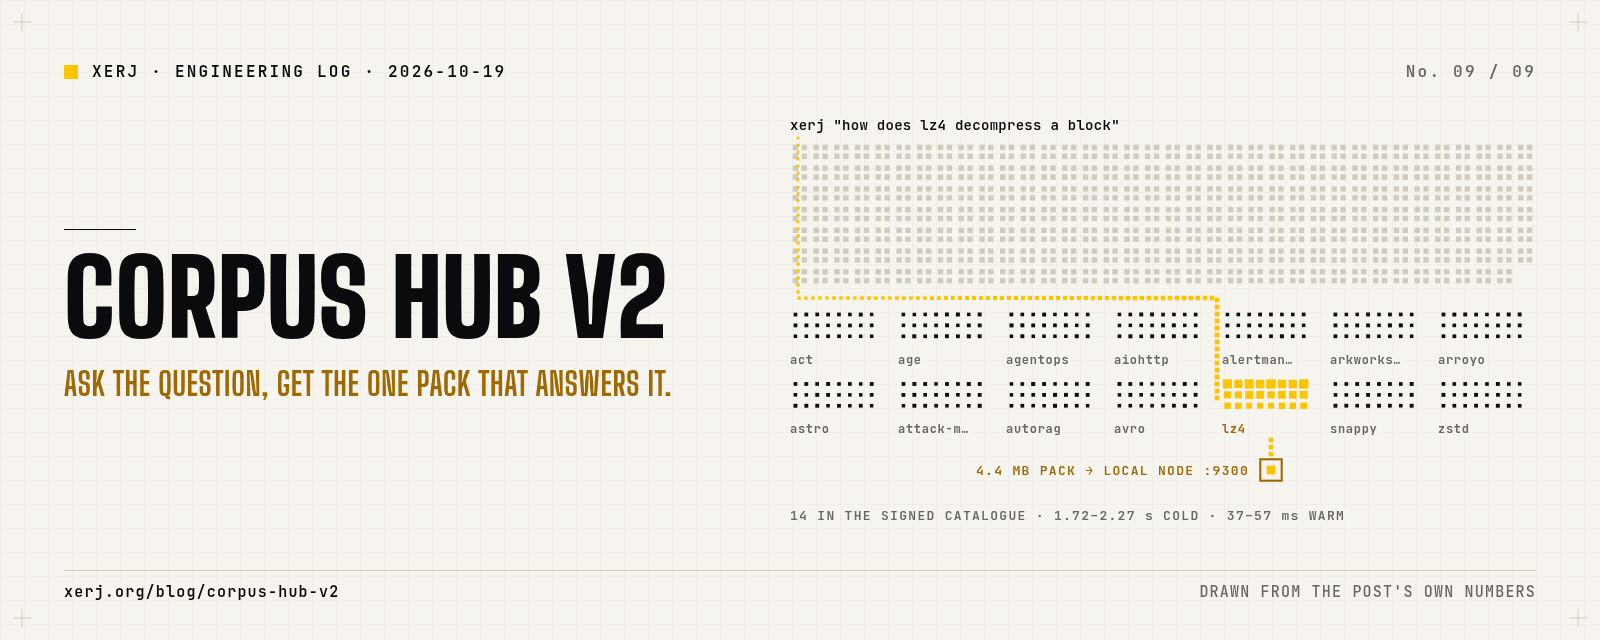
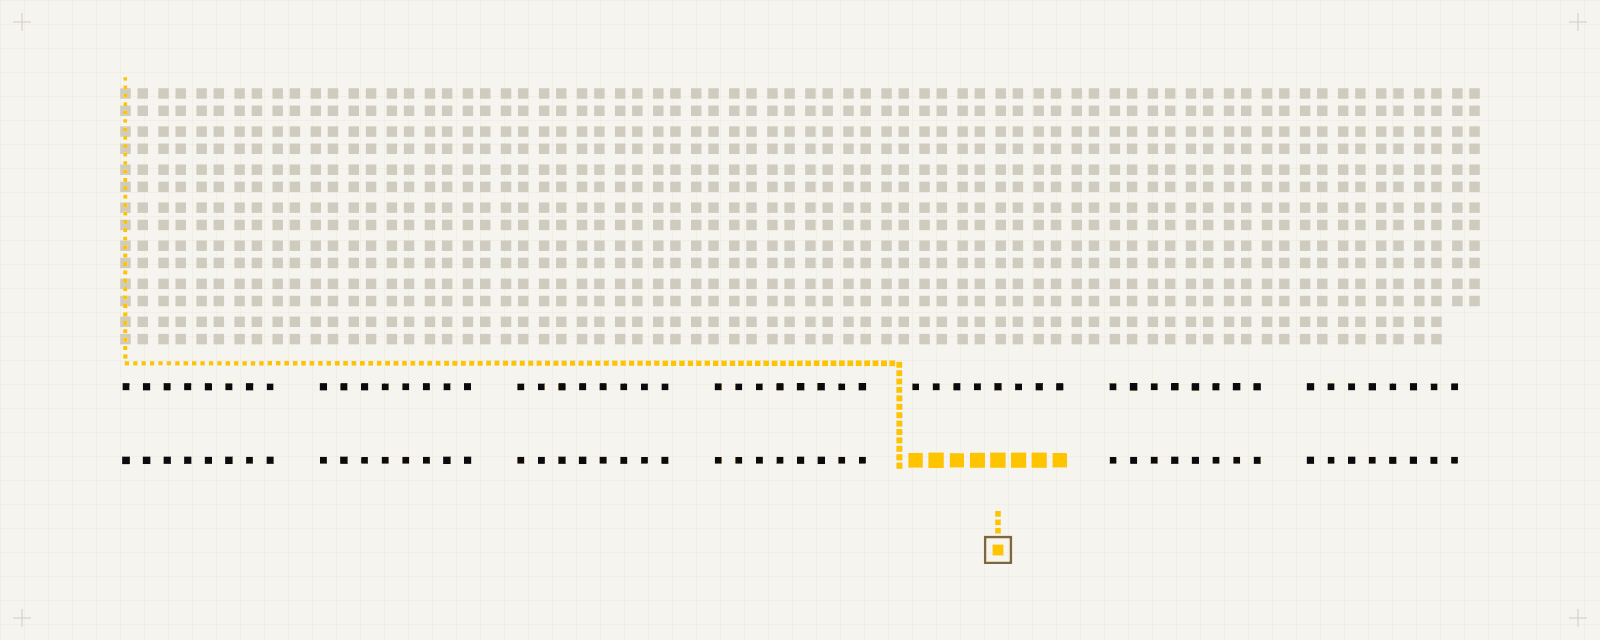
blog + home: art-only v2 cover, light post page, newest posts on the home page
- corpus-hub-v2 hero and thumbnail re-rendered art only (same names/sizes);
  img alt describes the art, og:image:alt the og card (title + art)
- the post is served in the day theme like every /blog/ page (blog.css v4,
  reading theme from #1918); its own typography block is dropped in favour
  of #1918's
- home page "From the blog": the three newest posts (Corpus Hub v2, the
  exploit hub, eval scars) with their cover thumbnails, replacing the two
  September cards with no images; responsive 3/2/1 columns

diff --git a/landing/index.html b/landing/index.html
@@ -474,19 +474,37 @@ $ curl -sXPOST localhost:9200/_memory/agent-demo/_recall \
     instead of taking it.
   </p>
 
-  <div class="recipes" style="grid-template-columns:repeat(2,1fr); margin-top:var(--sp-6);">
-    <a class="recipe" href="/blog/jev-vs-a-bm25-vote">
-      <span class="num">2026-09-22 · BENCHMARKS · DECISIONS</span>
-      <span class="title">A BM25 vote ties Jev on spam and beats it on intent</span>
-      <p class="lead">Five hundred decisions each on two public datasets. A statistical tie on
-      spam, a nine-point win on 77-way intent at zero marginal cost, and one dataset where Jev
-      beats us outright.</p>
+  <!-- Newest three posts, same order and thumbnails as /blog/ (covers from
+       scripts/seo/blog_covers/). Update when a post is published. -->
+  <style>
+    #blog .home-posts { grid-template-columns: repeat(3, minmax(0, 1fr)); margin-top: var(--sp-6); }
+    #blog .home-posts .recipe { gap: var(--sp-3); }
+    #blog .home-posts img { display: block; width: 100%; height: auto; aspect-ratio: 640 / 336;
+                            border: 1px solid var(--z-line); background: #f6f4ee; }
+    #blog .home-posts .num { color: var(--z-mute); }
+    #blog .home-posts .lead { font-size: 15px; line-height: 1.55; }
+    #blog .home-posts .recipe:hover img { border-color: var(--z-accent); }
+    @media (max-width: 900px) { #blog .home-posts { grid-template-columns: repeat(2, minmax(0, 1fr)); } }
+    @media (max-width: 600px) { #blog .home-posts { grid-template-columns: minmax(0, 1fr); } }
+  </style>
+  <div class="recipes home-posts">
+    <a class="recipe" href="/blog/corpus-hub-v2">
+      <img src="/blog/covers/corpus-hub-v2-thumb.webp" width="640" height="336" alt="Cover art: a faint wall of 251 small tiles above 14 larger square-matrix tiles; a yellow route runs from the top into one yellow tile and down to a framed node" loading="lazy" decoding="async">
+      <span class="num">2026-10-19 · CORPUS HUB · XERJ ASK</span>
+      <span class="title">Corpus Hub v2: ask the question, get the one pack that answers it</span>
+      <p class="lead">Type a question and <code>xerj</code> picks the corpus from a signed catalogue, pulls that one pre-indexed pack (lz4: 4.4&nbsp;MB) and answers on your machine: 1.7 to 2.3&nbsp;s cold, 37 to 57&nbsp;ms warm.</p>
     </a>
-    <a class="recipe" href="/blog/does-xerj-beat-jev">
-      <span class="num">2026-09-21 · BENCHMARKS · RERANKING</span>
-      <span class="title">Does XERJ beat JEV? On the bill, outright. On FiQA, no.</span>
-      <p class="lead">1,271 judged BEIR queries. The hosted judge wins SciFact and FiQA, our
-      local hybrid keeps NFCorpus, and the rerank run billed $0.6375 against our zero.</p>
+    <a class="recipe" href="/blog/the-exploit-hub">
+      <img src="/blog/covers/the-exploit-hub-thumb.webp" width="640" height="336" alt="Cover art: a network of small square nodes; a yellow hub linked to 36 yellow nodes, an ink node with one link, and an empty square frame with none" loading="lazy" decoding="async">
+      <span class="num">2026-10-08 · CYBER-EXPLOITS CORPUS · EVAL</span>
+      <span class="title">The exploit hub, tested on three fresh CVEs</span>
+      <p class="lead">One query over 1.09 million PoC documents named the exact route and field for CVE-2026-23744; the third case proved the corpus adds nothing when its stratum is empty, and we count it.</p>
+    </a>
+    <a class="recipe" href="/blog/eval-scars-from-agent-memory">
+      <img src="/blog/covers/eval-scars-from-agent-memory-thumb.webp" width="640" height="336" alt="Cover art: six clusters of diagonal scratch marks made of small squares, five in ink and one in yellow" loading="lazy" decoding="async">
+      <span class="num">2026-10-07 · GUEST · AGENT MEMORY · EVAL</span>
+      <span class="title">Six eval scars from a production agent-memory system</span>
+      <p class="lead">Chunxiao Wang (Assay / nautilus-compass) on six patterns that each cost a real failure, from topic slicing to the masking bug that scores every query zero.</p>
     </a>
   </div>
 

diff --git a/landing/blog/corpus-hub-v2.html b/landing/blog/corpus-hub-v2.html
@@ -1,5 +1,5 @@
 <!DOCTYPE html>
-<html lang="en">
+<html lang="en" data-theme="day">
 <head>
 <meta charset="UTF-8">
 <meta name="viewport" content="width=device-width, initial-scale=1.0">
@@ -9,7 +9,7 @@
 <link rel="preconnect" href="https://fonts.gstatic.com" crossorigin>
 <link href="https://fonts.googleapis.com/css2?family=Big+Shoulders+Display:wght@400;700;800;900&family=Inter:wght@400;500;600;700&family=IBM+Plex+Sans:wght@400;500;600&family=JetBrains+Mono:wght@400;500;700&display=swap" rel="stylesheet">
 <link rel="stylesheet" href="/style.css?v=if9">
-<link rel="stylesheet" href="/blog.css?v=3">
+<link rel="stylesheet" href="/blog.css?v=4">
 <!-- seo:begin — generated by scripts/seo/fix_heads.py · do not hand-edit -->
 <link rel="canonical" href="https://xerj.org/blog/corpus-hub-v2">
 <meta property="og:site_name" content="XERJ.ai">
@@ -20,7 +20,7 @@
 <meta property="og:image" content="https://xerj.org/og/blog-corpus-hub-v2.png">
 <meta property="og:image:width" content="1200">
 <meta property="og:image:height" content="630">
-<meta property="og:image:alt" content="Cover: a wall of 251 faint pack tiles behind the 14 corpora of the signed catalogue; a question routes to the lz4 tile, whose 4.4 MB pack goes to a local node on port 9300; 1.72 to 2.27 s cold, 37 to 57 ms warm">
+<meta property="og:image:alt" content="Cover: “Corpus Hub v2” in display type beside the post’s square-matrix art, labelled with its figures. The art: a faint wall of 251 small tiles above 14 larger square-matrix tiles; a yellow route runs from the top into one yellow tile and down to a framed node">
 <meta property="og:locale" content="en_US">
 <meta name="twitter:card" content="summary_large_image">
 <meta name="twitter:title" content="Corpus Hub v2: ask a question, get the one pack that answers">
@@ -130,7 +130,7 @@
 <main>
 <div class="uc-hero">
   <p class="blog-crumb"><a href="/blog/">&larr; ALL POSTS · /BLOG</a></p>
-  <figure class="blog-cover"><img src="/blog/covers/corpus-hub-v2-hero.webp" width="1600" height="640" alt="Cover: a wall of 251 faint pack tiles behind the 14 corpora of the signed catalogue; a question routes to the lz4 tile, whose 4.4 MB pack goes to a local node on port 9300; 1.72 to 2.27 s cold, 37 to 57 ms warm" fetchpriority="high" decoding="async"></figure>
+  <figure class="blog-cover"><img src="/blog/covers/corpus-hub-v2-hero.webp" width="1600" height="640" alt="Cover art: a faint wall of 251 small tiles above 14 larger square-matrix tiles; a yellow route runs from the top into one yellow tile and down to a framed node" fetchpriority="high" decoding="async"></figure>
   <div class="uc-eyebrow">CORPUS HUB V2 · 3,663 CONTRIBUTORS · ROUTED · SIGNED · AS OF 2026-10-19</div>
   <h1>CORPUS HUB V2: ASK THE QUESTION,<br><span class="accent">GET THE ONE PACK THAT ANSWERS IT</span></h1>
   <p class="blog-byline">XERJ ENGINEERING · PUBLISHED 2026-10-19</p>

diff --git a/landing/blog/index.html b/landing/blog/index.html
@@ -131,7 +131,7 @@
   <ol class="blog-list">
     <li>
       <a class="bl-card" href="/blog/corpus-hub-v2">
-        <img class="bl-thumb" src="/blog/covers/corpus-hub-v2-thumb.webp" width="640" height="336" alt="Cover: a wall of 251 faint pack tiles behind the 14 corpora of the signed catalogue; a question routes to the lz4 tile, whose 4.4 MB pack goes to a local node on port 9300; 1.72 to 2.27 s cold, 37 to 57 ms warm" loading="lazy" decoding="async">
+        <img class="bl-thumb" src="/blog/covers/corpus-hub-v2-thumb.webp" width="640" height="336" alt="Cover art: a faint wall of 251 small tiles above 14 larger square-matrix tiles; a yellow route runs from the top into one yellow tile and down to a framed node" loading="lazy" decoding="async">
         <div class="bl-meta">
           <p class="bl-date"><time datetime="2026-10-19">2026-10-19</time> · CORPUS HUB · XERJ ASK</p>
           <h2 class="bl-title">Corpus Hub v2: ask the question, get the one pack that answers it</h2>

diff --git a/scripts/seo/pagedata.py b/scripts/seo/pagedata.py
@@ -217,7 +217,7 @@ PAGES: dict[str, dict[str, str]] = {
         description="Hub v2 routes a plain question to one signed corpus, pulls only that pack (lz4: 4.4 MB) and answers locally: 1.7 to 2.3 s cold, under 60 ms warm.",
         published="2026-10-19", updated="2026-10-20",
         og_image="og/blog-corpus-hub-v2.png",
-        og_image_alt="Cover: a wall of 251 faint pack tiles behind the 14 corpora of the signed catalogue; a question routes to the lz4 tile, whose 4.4 MB pack goes to a local node on port 9300; 1.72 to 2.27 s cold, 37 to 57 ms warm",
+        og_image_alt="Cover: “Corpus Hub v2” in display type beside the post’s square-matrix art, labelled with its figures. The art: a faint wall of 251 small tiles above 14 larger square-matrix tiles; a yellow route runs from the top into one yellow tile and down to a framed node",
     ),
     "blog/index.html": dict(
         label="Blog", kind="collection",
